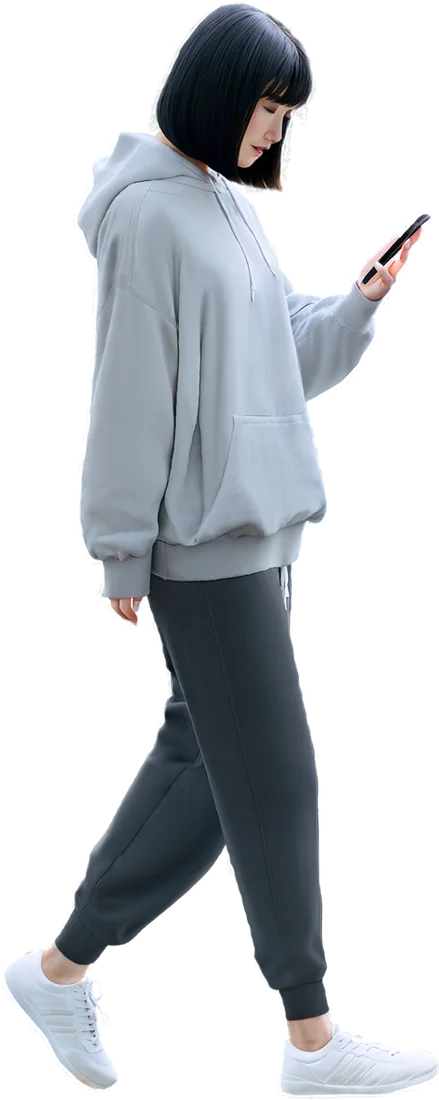
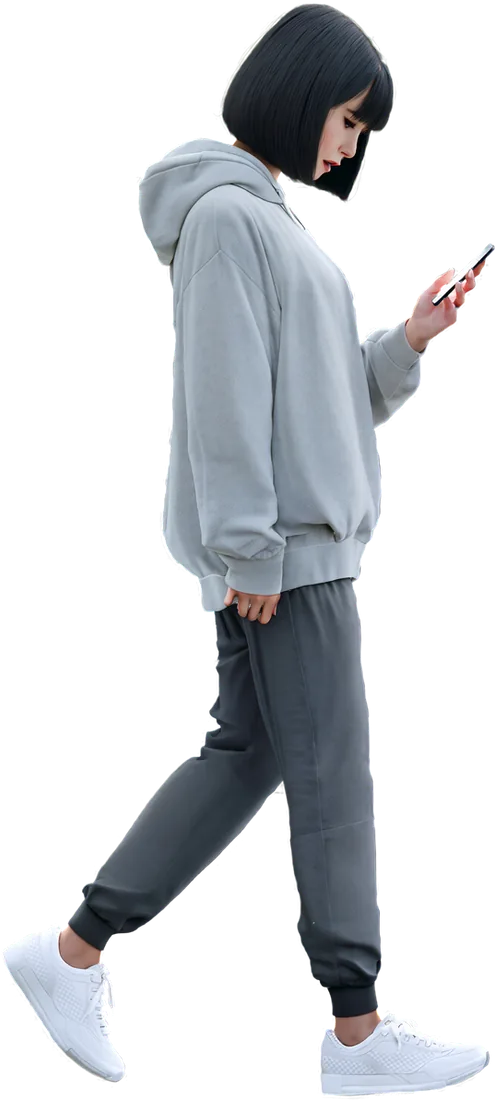
About: the street scene is a real street, seen from the near pavement
Back to front: the far pavement and the road run on to both edges of the
screen, one joined block of shophouses with towers behind stands across the
road, and the two walk along the near pavement between a street tree at each
side. The road and both pavements are photographs repeated sideways, each
strip joined to its mirror so the repeat has no seam. Ask is generated in the
opening scene's own words, so she is the same girl.

Claude-Session: https://claude.ai/code/session_012ad1UvDNx4pbuDZ2wZJ92U

diff --git a/components/about/story-scenes.tsx b/components/about/story-scenes.tsx
@@ -405,31 +405,38 @@ function StreetScene() {
   return (
     <Scene id="s2" labelledBy="story-s2" staged>
       <Lines accent={1} id="story-s2" lines={[t("s2L1"), t("s2L2")]} />
+      {/* A street seen from the near pavement, back to front: the far
+          pavement and the road, run on to both edges of the screen; across
+          the road one joined block of shophouses with towers behind; the near
+          pavement the two walk along; a street tree at each side. The road
+          and both pavements are photographs repeated sideways (each strip
+          joined to its mirror, so the repeat has no seam), the road strip cut
+          from the block's own picture so the two meet. */}
       <Stage className="h-96">
-        <Part kind="rise" name="building" spot="bottom-0 left-0 lg:bottom-[100px] lg:left-[190px]">
-          <Art className="h-56 opacity-90 lg:h-[600px]" name="building_office" />
+        <Part kind="rise" name="ground" spot="-inset-x-[50vw] bottom-12 h-10 lg:inset-x-[-1500px] lg:bottom-[140px] lg:h-[115px]">
+          <div className="size-full bg-[url(/about-story/street_floor.webp)] bg-size-[auto_100%] bg-repeat-x" />
         </Part>
-        <Part kind="rise" name="building" spot="right-0 bottom-0 lg:right-auto lg:bottom-[100px] lg:left-[1225px]">
-          <Art className="h-48 opacity-90 lg:h-[520px]" name="building_condo" />
+        <Part kind="rise" name="building" spot="inset-x-0 bottom-21 flex justify-center lg:inset-x-auto lg:bottom-[254px] lg:left-[323px]">
+          <Art className="h-40 lg:h-[448px]" name="street_block" />
         </Part>
-        <Part kind="rise" name="building" spot="inset-x-0 bottom-0 flex justify-center lg:inset-x-auto lg:bottom-[100px] lg:left-[518px]">
-          <Art className="h-28 opacity-90 lg:h-[300px]" name="building_shophouse" />
+        <Part kind="rise" name="ground" spot="-inset-x-[50vw] bottom-0 h-14 lg:inset-x-[-1500px] lg:h-[150px]">
+          <div className="size-full bg-[url(/about-story/sidewalk.webp)] bg-size-[auto_100%] bg-repeat-x" />
         </Part>
-        <Part kind="left" name="ask" spot="bottom-0 left-[16%] lg:bottom-[90px] lg:left-[650px]">
+        <Part kind="left" name="ask" spot="bottom-2 left-[16%] lg:bottom-[50px] lg:left-[650px]">
           <Bob>
             <Art className="h-48 lg:h-[520px]" name="ask_walk" />
           </Bob>
         </Part>
-        <Part kind="right" name="answer" spot="right-[16%] bottom-0 lg:right-auto lg:bottom-[90px] lg:left-[890px]">
+        <Part kind="right" name="answer" spot="right-[16%] bottom-2 lg:right-auto lg:bottom-[50px] lg:left-[890px]">
           <Bob>
             <Art className="h-48 lg:h-[540px]" name="answer_walk" />
           </Bob>
         </Part>
-        <Part kind="left" name="tree-left" spot="hidden lg:block lg:bottom-[40px] lg:left-[-40px]">
-          <Art className="lg:h-[560px]" name="tree_tall" />
+        <Part kind="left" name="tree-left" spot="hidden lg:block lg:bottom-[20px] lg:left-[-90px]">
+          <Art className="lg:h-[640px]" name="street_tree_a" />
         </Part>
-        <Part kind="right" name="tree-right" spot="hidden lg:block lg:bottom-[50px] lg:left-[1470px]">
-          <Art className="lg:h-[420px]" name="tree_round" />
+        <Part kind="right" name="tree-right" spot="hidden lg:block lg:bottom-[24px] lg:left-[1390px]">
+          <Art className="lg:h-[580px]" name="street_tree_b" />
         </Part>
       </Stage>
     </Scene>

diff --git a/components/about/story-parts.tsx b/components/about/story-parts.tsx
@@ -216,11 +216,9 @@ export type ArtName =
   | "question_mark"
   | "book"
   | "chart"
-  | "building_office"
-  | "building_condo"
-  | "building_shophouse"
-  | "tree_round"
-  | "tree_tall"
+  | "street_block"
+  | "street_tree_a"
+  | "street_tree_b"
   | "phone"
   | "laptop"
   | "desk"
@@ -262,7 +260,7 @@ const ART_SIZE: Partial<Record<ArtName, readonly [number, number]>> = {
   asker_think: [395, 1148],
   asker_chin: [289, 1122],
   expert_wave: [367, 1198],
-  ask_walk: [439, 1100],
+  ask_walk: [495, 1100],
   answer_walk: [465, 1100],
   ask_phone: [338, 1137],
   ask_call: [600, 1122],
@@ -283,11 +281,9 @@ const ART_SIZE: Partial<Record<ArtName, readonly [number, number]>> = {
   clock: [481, 480],
   book: [351, 320],
   question_mark: [266, 340],
-  building_office: [539, 1039],
-  building_condo: [478, 915],
-  building_shophouse: [1128, 481],
-  tree_round: [590, 840],
-  tree_tall: [289, 1120],
+  street_block: [1329, 560],
+  street_tree_a: [753, 1100],
+  street_tree_b: [821, 1053],
   star: [265, 260],
   laptop: [471, 320],
   window_room: [508, 1000],
